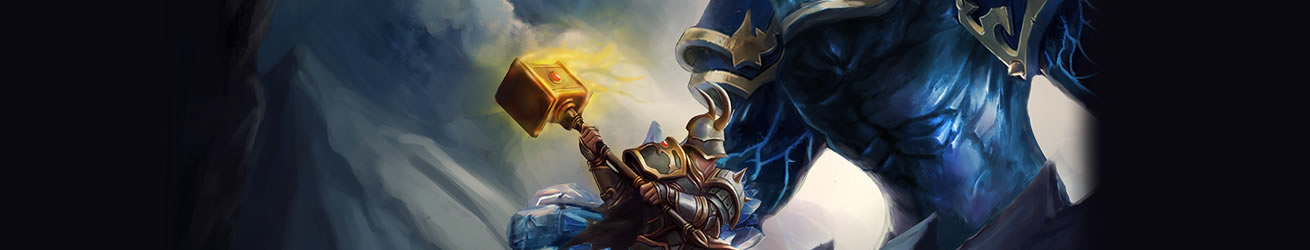
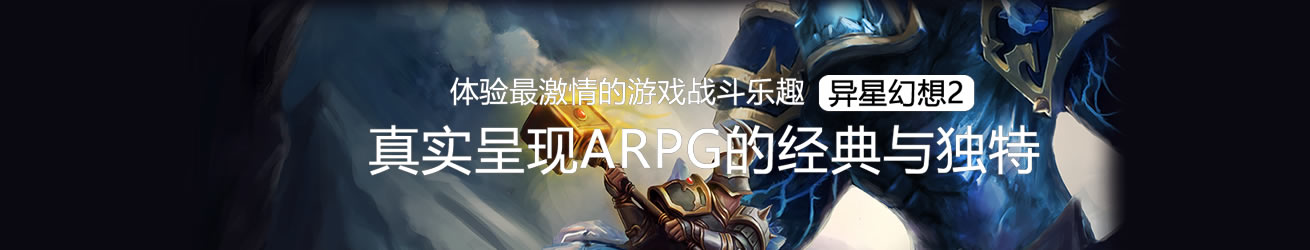
m

diff --git a/index.html b/index.html
@@ -4,7 +4,7 @@ layout: default
 
 <div class="home">  
 
-  <h1 class="page-heading">开发日志</h1>  
+  <h1 class="page-heading"></h1>  
 
   <ul class="post-list">
     {% for post in site.categories.blogs limit:1 %}
@@ -21,10 +21,29 @@ layout: default
     {% endfor %}
   </ul>
 
+  <div class="align-center">
+    <h1 class="page-heading">游戏新特色</h1>  
+  </div>
+
+  <div class="footer-col-wrapper">
+    {% for post in site.categories.features reversed %}
+      <div class="footer-col  footer-col-1">
+        <img src="{{post.picture}}">
+        <h3 class="align-center">
+          {{ post.title }}
+        </h3>
+        <span class="post-meta">{{ post.content }}</span>
+      </div>
+    {% endfor %}
+  </div>
+
+  <div class="align-center">
+    <h1 class="page-heading">游戏日志</h1>  
+  </div>
+
   <ul class="post-list">
     {% for post in site.categories.blogs limit:6 offset:1 %}
-      <li>       
-
+      <li>
         <h2>
           <a class="post-link" href="{{ post.url | prepend: site.baseurl }}">{{ post.title }}</a>
         </h2>

diff --git a/_includes/header.html b/_includes/header.html
@@ -14,6 +14,7 @@
       </a>
 
       <div class="trigger">
+        <a href="{{site.baseurl}}/">官网首页</a>
         {% assign sorted_pages = (site.pages | sort: 'id') %}
         {% for page in sorted_pages %}
           {% if page.title %}
@@ -28,5 +29,5 @@
 </header>
 
 <div class="header-image">
-  <img src="/images/slogon.png">
+  <img src="/images/header.jpg">
 </div>

diff --git a/_layouts/post.html b/_layouts/post.html
@@ -9,6 +9,11 @@ layout: default
   </header>
 
   <article class="post-content">
+  	{% if page.picture %}
+  	<div class="align-center">
+		<img src="{{page.picture}}">
+	</div>
+	{% endif %}
     {{ content }}
   </article>
 

diff --git a/_sass/_layout.scss b/_sass/_layout.scss
@@ -88,9 +88,7 @@
 }
 
 .header-image {
-    background-image: url("/images/header.jpg");
     background-color: #0A0811;
-    background-repeat: no-repeat;
     text-align:center;
     mmargin:0 auto;
     width: 100%;

diff --git a/_posts/blogs/2016-01-26-1.md b/_posts/blogs/2016-01-26-1.md
@@ -1,10 +1,14 @@
 ---
 layout: post
-title:  "异星幻想2"
-date:   2015-10-12 18:09:01
+title:  "《异星幻想2》开放测试公告"
+date:   2016-01-26 00:00:00
 categories: blogs
 ---
 
 <div class="post-content">
+　　作为国内最早的3D魔幻手游，《异星幻想》从首次测试开始，就获得了大量玩家的关注与支持。在伴随无数亲爱的玩家们成长的时光里，异星虽为数不多的大陆里，却处处刻满了大家的回忆和友情。<br>
+　　《异星幻想2》在经过一段时间的修改调整后，将于<font color="red">2016年1月28日上午10:00</font>正式开放测试，诚邀各位新老玩家入驻，再次开启我们共同的回忆，去体会不一样的征程！<br><br>
+　　本次测试不删档，开放账号充值。原异星官网注册的账号不通用，需要重新注册。老版本的客户端也是不兼容异星２的，需要您重新从本网站下载安装。<br>
+　　内测阶段可能会发现游戏存在的各种不足，开发团队真诚期待您的反馈，欢迎您在交流讨论区留下宝贵的意见和建议。也可以关注我们的微信公众号，与我们进一步交流。
 
 </div>

diff --git a/_posts/arts/2016-01-26-1.md b/_posts/arts/2016-01-26-1.md
@@ -1,13 +1,10 @@
 ---
 layout: post
-title:  "账号注册和角色创建"
+title:  "栏目建设中"
 date:   2016-01-01 18:00:00
 categories: arts
 ---
 
-<div class="post-content">
-	在注册界面点击“注册”按钮，显示如下界面。请输入账号和密码，手机号码为可选输入信息，建议您填写真实的手机号码，否则将无法有效保护您的账号安全！
-	<div>
-		<img src="/images/arts/regist.PNG">
-	</div>
+<div class="post-content">	
+
 </div>
